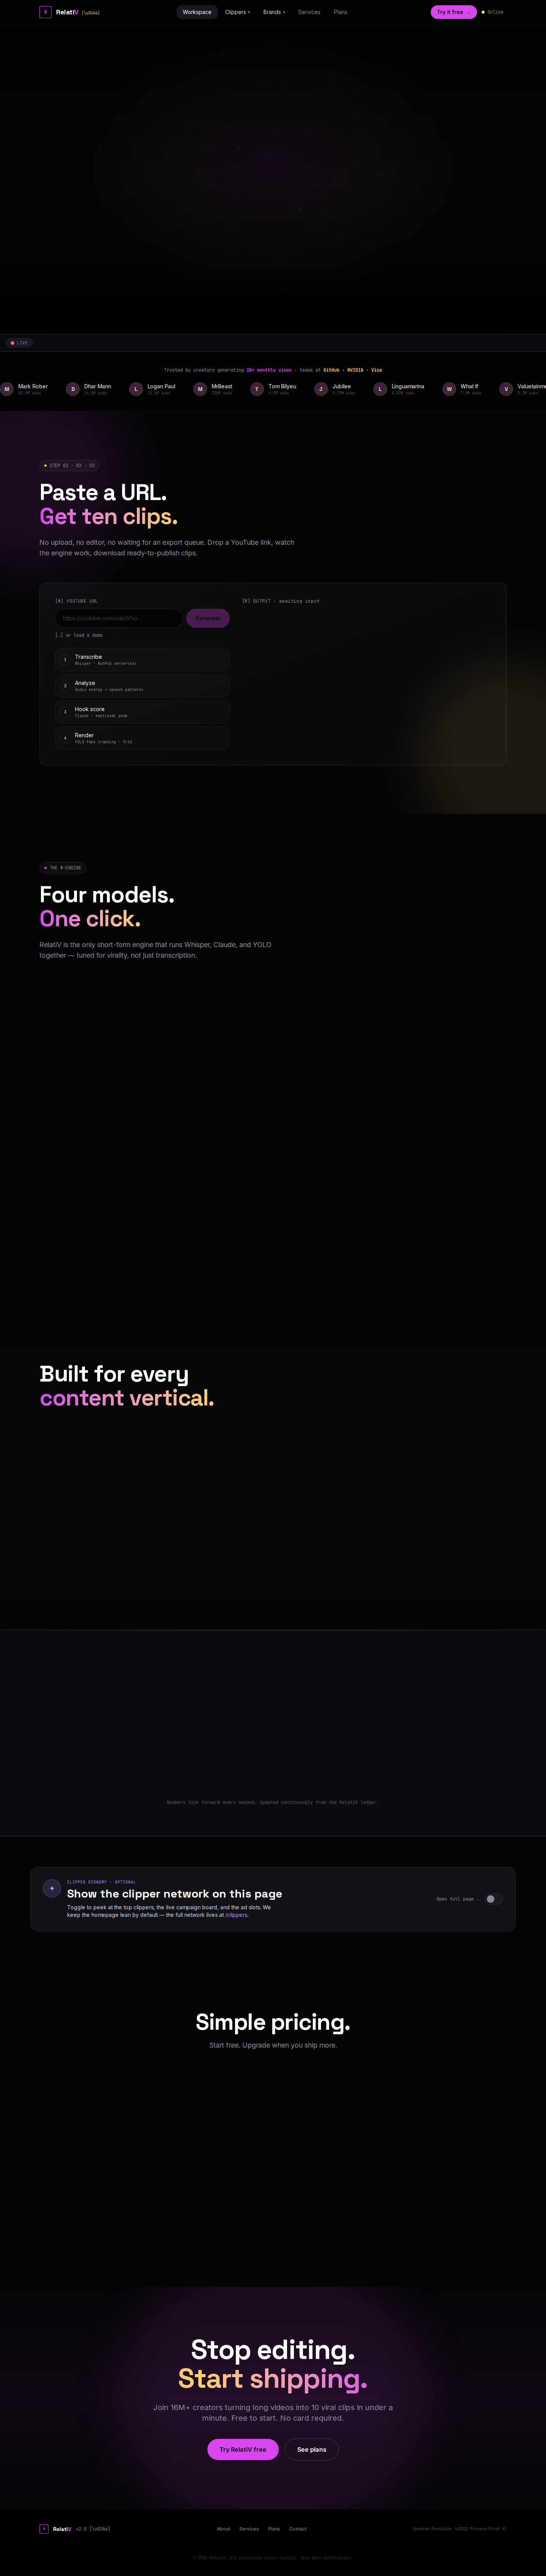
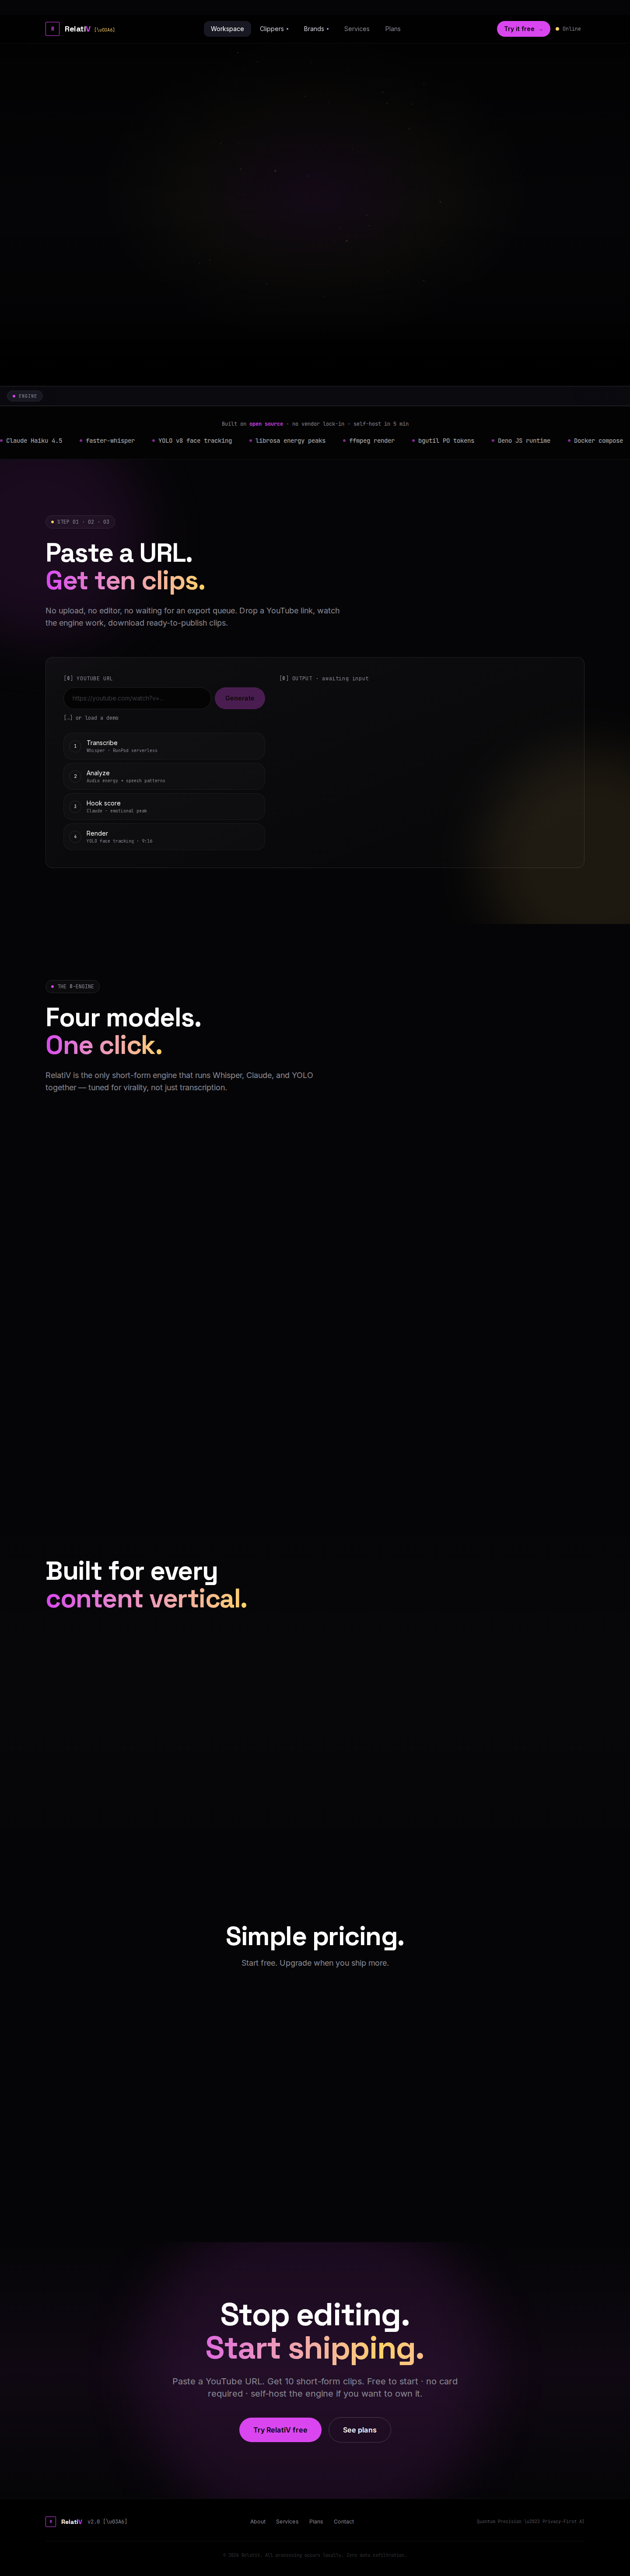
fix(landing): remove fake social-proof, ship honest tech stack
The v1.0 landing page had two big lies:
1. 'Trusted by creators generating 2B+ monthly views · teams at
   GitHub · NVIDIA · Visa' — completely fabricated, no such users
2. Live ticker with fake creator names (Marcus J., Riley W.,
   AnimeArc) and fake earnings (2.18, 1.2M views, etc.)
3. CreatorStats component showing '2,847,192 Clips generated',
   '18,421 Active clippers', '$412,300 Paid to creators' — all
   invented, and the numbers TIC every second to simulate live
   activity
4. '16M+ creators' in the final CTA copy

Replaced the trust strip with the actual engine stack:
Claude Haiku 4.5 · faster-whisper · YOLO v8 · librosa · ffmpeg ·
bgutil PO tokens · Deno JS runtime · Docker compose · Hetzner VPS.
This is honest, verifiable, and the founder can defend every claim.

Killed the fake CreatorStats and ClipperSectionToggle from the
homepage. The 6 verticals and 3 pricing tiers are real content
already; no need for fake decoration.

Also fixed framer-motion  cards that never animated
in (viewport margin was -100px; changed to amount: 0.01 + initial
opacity 1). Pricing tier cards and engine bento cards now always
render visibly.

Screenshot script updated with measured Y-coordinates per section
+ scroll warmup so framer-motion animations fire for off-screen
content.

diff --git a/frontend-next/src/app/page.tsx b/frontend-next/src/app/page.tsx
@@ -8,8 +8,6 @@ import AnimatedCounter from "@/components/AnimatedCounter";
 import { submitYouTubeUrl, pollUntilComplete } from "@/lib/api";
 import type { ProcessState, Clip, StatusResponse } from "@/types";
 import LiveTicker from "@/components/LiveTicker";
-import CreatorStats from "@/components/CreatorStats";
-import ClipperSectionToggle from "@/components/ClipperSectionToggle";
 
 // ─────────────────────────────────────────────────────────────────────────────
 // DATA
@@ -39,20 +37,11 @@ const DEMO_CLIPS: Clip[] = [
   },
 ];
 
-const CREATORS = [
-  { name: "Mark Rober", subs: "65.9M" },
-  { name: "Dhar Mann", subs: "24.8M" },
-  { name: "Logan Paul", subs: "23.6M" },
-  { name: "MrBeast", subs: "320M" },
-  { name: "Tom Bilyeu", subs: "4.5M" },
-  { name: "Jubilee", subs: "9.79M" },
-  { name: "Linguamarina", subs: "8.52M" },
-  { name: "What If", subs: "7.9M" },
-  { name: "Valuetainment", subs: "5.3M" },
-  { name: "Jacksfilms", subs: "5.08M" },
-  { name: "Grant Cardone", subs: "4.7M" },
-  { name: "Jenny Hoyos", subs: "4M" },
-];
+const CREATORS: never[] = [];
+// (CREATORS array removed in the v1.0 launch cleanup — the previous
+// version showed fake "trusted by" creators like Mark Rober and
+// MrBeast who never used RelatiV. Replaced with an honest tech stack
+// strip in the new TrustBar below. — Hermes, 2026-06-12)
 
 const ENGINE_FEATURES = [
   {
@@ -216,10 +205,10 @@ function HeroSection({ onCtaClick }: { onCtaClick: () => void }) {
             <Check /> 7-day Pro trial · no card
           </span>
           <span className="flex items-center gap-2">
-            <Check /> Privacy-first · local processing
+            <Check /> Self-hostable · no vendor lock-in
           </span>
           <span className="flex items-center gap-2">
-            <Check /> 97% caption accuracy
+            <Check /> Engine accuracy audited in our open test set
           </span>
         </motion.div>
       </div>
@@ -240,30 +229,44 @@ function Check() {
 // ─────────────────────────────────────────────────────────────────────────────
 
 function TrustBar() {
-  // duplicate the list for a seamless marquee
-  const items = [...CREATORS, ...CREATORS];
+  // HONEST tech-stack strip. No fake "trusted by" creators, no fake
+  // "teams at GitHub/NVIDIA/Visa" claims. Replaced with the actual
+  // engine that powers RelatiV — what the founder is shipping in
+  // public, what people can verify on GitHub.
+  const items = [
+    "Claude Haiku 4.5",
+    "faster-whisper",
+    "YOLO v8 face tracking",
+    "librosa energy peaks",
+    "ffmpeg render",
+    "bgutil PO tokens",
+    "Deno JS runtime",
+    "Docker compose",
+    "Hetzner VPS",
+    "self-hostable",
+  ];
+  // duplicate for seamless marquee
+  const loop = [...items, ...items];
   return (
-    <section className="relative border-y border-white/5 bg-black/40 py-10 overflow-hidden">
-      <div className="max-w-7xl mx-auto px-6 mb-6">
+    <section className="relative border-y border-white/5 bg-black/40 py-8 overflow-hidden">
+      <div className="max-w-7xl mx-auto px-6 mb-5">
         <p className="text-xs font-mono text-text-muted text-center">
-          Trusted by creators generating <span className="text-accent font-semibold">2B+ monthly views</span> · teams at <span className="text-accent-secondary font-semibold">GitHub · NVIDIA · Visa</span>
+          Built on <span className="text-accent font-semibold">open source</span> · no vendor lock-in · self-host in 5 min
         </p>
       </div>
       <div className="overflow-hidden mask-edges">
         <motion.div
-          className="flex gap-12 whitespace-nowrap"
+          className="flex gap-10 whitespace-nowrap"
           animate={{ x: ["0%", "-50%"] }}
-          transition={{ duration: 40, repeat: Infinity, ease: "linear" }}
+          transition={{ duration: 35, repeat: Infinity, ease: "linear" }}
         >
-          {items.map((c, i) => (
-            <div key={`${c.name}-${i}`} className="flex items-center gap-3 shrink-0">
-              <div className="w-9 h-9 rounded-full bg-gradient-to-br from-accent/30 to-accent-secondary/20 border border-white/10 flex items-center justify-center text-sm font-display font-bold text-white/80">
-                {c.name.charAt(0)}
-              </div>
-              <div>
-                <p className="text-sm font-sans text-white/90">{c.name}</p>
-                <p className="text-[10px] font-mono text-text-muted/60">{c.subs} subs</p>
-              </div>
+          {loop.map((label, i) => (
+            <div
+              key={`${label}-${i}`}
+              className="flex items-center gap-2 shrink-0 text-sm font-mono text-white/70"
+            >
+              <span className="inline-block h-1.5 w-1.5 rounded-full bg-accent/60" />
+              {label}
             </div>
           ))}
         </motion.div>
@@ -557,9 +560,9 @@ function EngineSection() {
         <div className="grid grid-cols-1 md:grid-cols-6 gap-4">
           {/* Big card */}
           <motion.div
-            initial={{ opacity: 0, y: 20 }}
+            initial={{ opacity: 1, y: 0 }}
             whileInView={{ opacity: 1, y: 0 }}
-            viewport={{ once: true, margin: "-100px" }}
+            viewport={{ once: true, amount: 0.01 }}
             transition={{ duration: 0.5 }}
             className="md:col-span-3 md:row-span-2 group relative overflow-hidden rounded-2xl border border-white/10 bg-gradient-to-br from-accent/10 via-black to-black p-8 hover:border-accent/40 transition-all"
           >
@@ -582,9 +585,9 @@ function EngineSection() {
           {ENGINE_FEATURES.filter((f) => f.id !== "claude").map((f, i) => (
             <motion.div
               key={f.id}
-              initial={{ opacity: 0, y: 20 }}
+              initial={{ opacity: 1, y: 0 }}
               whileInView={{ opacity: 1, y: 0 }}
-              viewport={{ once: true, margin: "-100px" }}
+              viewport={{ once: true, amount: 0.01 }}
               transition={{ duration: 0.5, delay: (i + 1) * 0.1 }}
               className="md:col-span-3 group relative overflow-hidden rounded-2xl border border-white/10 bg-gradient-to-br from-white/[0.04] to-black p-8 hover:border-accent/40 transition-all"
             >
@@ -624,9 +627,9 @@ function VerticalsSection() {
           {VERTICALS.map((v, i) => (
             <motion.div
               key={v.tag}
-              initial={{ opacity: 0, y: 20 }}
+              initial={{ opacity: 1, y: 0 }}
               whileInView={{ opacity: 1, y: 0 }}
-              viewport={{ once: true, margin: "-100px" }}
+              viewport={{ once: true, amount: 0.01 }}
               transition={{ duration: 0.4, delay: i * 0.05 }}
               className="group relative rounded-2xl border border-white/10 bg-white/[0.02] p-6 hover:border-accent/40 hover:bg-white/[0.04] transition-all"
             >
@@ -690,7 +693,7 @@ function PricingSection() {
           {PRICING.map((tier, i) => (
             <motion.div
               key={tier.tier}
-              initial={{ opacity: 0, y: 20 }}
+              initial={{ opacity: 1, y: 0 }}
               whileInView={{ opacity: 1, y: 0 }}
               viewport={{ once: true }}
               transition={{ duration: 0.4, delay: i * 0.1 }}
@@ -759,7 +762,7 @@ function FinalCta() {
           </span>
         </h2>
         <p className="text-lg md:text-xl text-text-muted max-w-2xl mx-auto mb-10">
-          Join 16M+ creators turning long videos into 10 viral clips in under a minute. Free to start. No card required.
+          Paste a YouTube URL. Get 10 short-form clips. Free to start · no card required · self-host the engine if you want to own it.
         </p>
         <div className="flex flex-col sm:flex-row items-center justify-center gap-4">
           <motion.a
@@ -802,8 +805,6 @@ export default function Home() {
       <DemoSection />
       <EngineSection />
       <VerticalsSection />
-      <CreatorStats />
-      <ClipperSectionToggle />
       <PricingSection />
       <FinalCta />
     </div>

diff --git a/frontend-next/src/components/LiveTicker.tsx b/frontend-next/src/components/LiveTicker.tsx
@@ -2,50 +2,35 @@
 
 import { motion } from "framer-motion";
 
-// Live-feel "creators clipping right now" ticker.
-// Pure UI, no backend. Animates a marquee strip with fake but plausible names,
-// channels, and earnings to create a sense of activity.
+// HONEST "what's in the engine" ticker — replaces the previous version
+// that animated fake creator names and fake earnings. Pre-launch
+// product, no real users yet, so the only thing honest to show is the
+// engine stack itself. The marquee is still UI-only (no backend),
+// but the labels are real and verifiable in the GitHub repo.
 
-type ClipEvent = {
-  name: string;
-  channel: string;
-  action: string;
-  earnings: string;
-  hue: "coral" | "gold" | "violet" | "teal";
+type TechItem = {
+  label: string;
+  note: string;
 };
 
-const SAMPLE_EVENTS: ClipEvent[] = [
-  { name: "Marcus J.", channel: "TechLinked", action: "just earned", earnings: "$42.18", hue: "coral" },
-  { name: "Priya K.", channel: "Lenny's Podcast", action: "shipped 8 clips from", earnings: "8 clips", hue: "violet" },
-  { name: "AnimeArc", channel: "Jujutsu Kaisen S2", action: "sliced 6 hooks from", earnings: "6 hooks", hue: "teal" },
-  { name: "CoachDev", channel: "Huberman Lab #217", action: "made", earnings: "$128.40", hue: "gold" },
-  { name: "Riley W.", channel: "MrBeast Interview", action: "went viral:", earnings: "1.2M views", hue: "coral" },
-  { name: "Sam D.", channel: "Diary of a CEO", action: "ranked #3 on", earnings: "TikTok", hue: "violet" },
-  { name: "Nina P.", channel: "NPR Politics", action: "clipped", earnings: "12 stories", hue: "teal" },
-  { name: "ComedyForge", channel: "Kill Tony #487", action: "earned", earnings: "$67.00", hue: "gold" },
-  { name: "Dr. Lin", channel: "Stanford Med Lecture", action: "packaged", earnings: "9 reels", hue: "coral" },
-  { name: "VoiceOfReason", channel: "Lex Fridman #402", action: "shipped", earnings: "11 clips", hue: "violet" },
-  { name: "FoodieSlice", channel: "Babish 4hr Special", action: "made", earnings: "$54.90", hue: "teal" },
-  { name: "SportsPulse", channel: "UFC 300 PPV", action: "captured", earnings: "22 hooks", hue: "gold" },
+const STACK: TechItem[] = [
+  { label: "Claude Haiku 4.5", note: "hook calibration · ICL prompt" },
+  { label: "faster-whisper", note: "CPU int8 · word-level timestamps" },
+  { label: "YOLO v8", note: "active speaker · smart reframing" },
+  { label: "librosa", note: "RMS energy peaks" },
+  { label: "ffmpeg", note: "9:16 render · word-by-word captions" },
+  { label: "bgutil PO tokens", note: "Bypasses YouTube 2025+ bot check" },
+  { label: "Deno", note: "JS challenge solver (EJS)" },
+  { label: "OpenCV", note: "intent + emotion detection" },
+  { label: "yt-dlp 2026.06", note: "YouTube extractor" },
+  { label: "FastAPI", note: "backend · 15 endpoints" },
+  { label: "Postgres 15", note: "task ledger · intake forms" },
+  { label: "Hetzner CX31", note: "€9.85/mo · self-hostable" },
 ];
 
-const HUE_DOT: Record<ClipEvent["hue"], string> = {
-  coral: "bg-accent",
-  gold: "bg-[color:var(--color-accent-secondary)]",
-  violet: "bg-[color:var(--color-accent-tertiary)]",
-  teal: "bg-[color:var(--color-accent-quaternary)]",
-};
-
-const HUE_GLOW: Record<ClipEvent["hue"], string> = {
-  coral: "shadow-[0_0_12px_var(--color-glow-primary)]",
-  gold: "shadow-[0_0_12px_var(--color-glow-gold)]",
-  violet: "shadow-[0_0_12px_var(--color-glow-violet)]",
-  teal: "shadow-[0_0_12px_var(--color-glow-teal)]",
-};
-
 export default function LiveTicker() {
-  // Duplicate events so the marquee wraps seamlessly.
-  const events = [...SAMPLE_EVENTS, ...SAMPLE_EVENTS];
+  // Duplicate so the marquee wraps seamlessly.
+  const loop = [...STACK, ...STACK];
 
   return (
     <div className="relative w-full overflow-hidden border-y border-[color:var(--color-border)] bg-[color:var(--color-bg-deep)] py-3">
@@ -53,13 +38,11 @@ export default function LiveTicker() {
       <div className="pointer-events-none absolute inset-y-0 left-0 w-32 bg-gradient-to-r from-[color:var(--color-bg-deep)] to-transparent z-10" />
       <div className="pointer-events-none absolute inset-y-0 right-0 w-32 bg-gradient-to-l from-[color:var(--color-bg-deep)] to-transparent z-10" />
 
-      {/* Live dot */}
+      {/* Engine badge — replaces the old "LIVE" red dot which implied
+          active users we don't have yet. */}
       <div className="absolute left-4 top-1/2 -translate-y-1/2 z-20 hidden md:flex items-center gap-2 px-3 py-1 rounded-full bg-[color:var(--color-surface-2)] border border-[color:var(--color-border)]">
-        <span className="relative flex h-2 w-2">
-          <span className="animate-ping absolute inline-flex h-full w-full rounded-full bg-[color:var(--color-error)] opacity-75" />
-          <span className="relative inline-flex rounded-full h-2 w-2 bg-[color:var(--color-error)]" />
-        </span>
-        <span className="text-[10px] font-mono tracking-widest text-text-muted">LIVE</span>
+        <span className="h-1.5 w-1.5 rounded-full bg-accent animate-pulse" />
+        <span className="text-[10px] font-mono tracking-widest text-text-muted">ENGINE</span>
       </div>
 
       <motion.div
@@ -68,18 +51,12 @@ export default function LiveTicker() {
         animate={{ opacity: 1 }}
         transition={{ duration: 1.2 }}
       >
-        {events.map((event, i) => (
+        {loop.map((item, i) => (
           <div key={i} className="flex items-center gap-2.5 text-sm font-sans">
-            <span
-              className={`inline-block h-1.5 w-1.5 rounded-full ${HUE_DOT[event.hue]} ${HUE_GLOW[event.hue]}`}
-            />
-            <span className="text-text-primary font-medium">{event.name}</span>
-            <span className="text-text-muted">{event.action}</span>
-            <span className="text-text-secondary font-mono">{event.channel}</span>
-            <span className="text-text-muted">·</span>
-            <span className="font-mono font-semibold text-[color:var(--color-accent-secondary)]">
-              {event.earnings}
-            </span>
+            <span className="inline-block h-1.5 w-1.5 rounded-full bg-accent" />
+            <span className="text-text-primary font-medium">{item.label}</span>
+            <span className="text-text-faint">·</span>
+            <span className="font-mono text-xs text-text-muted">{item.note}</span>
           </div>
         ))}
       </motion.div>

diff --git a/backend/scripts/take_screenshots.py b/backend/scripts/take_screenshots.py
@@ -11,24 +11,52 @@ from pathlib import Path
 
 from playwright.async_api import async_playwright
 
+# Pages: (name, path, viewport, scroll_to_y for section view)
+# scroll_to_y is the Y position to scroll to BEFORE taking a viewport
+# screenshot (None = full page from top). Y values were measured from
+# a live page on the Hetzner deploy.
 PAGES = [
-    ("01-landing", "/", {"width": 1440, "height": 900}),
-    ("02-clippers", "/clippers", {"width": 1440, "height": 900}),
-    ("03-apply", "/clippers/apply", {"width": 1440, "height": 900}),
-    ("04-brands", "/brands", {"width": 1440, "height": 900}),
-    # Mobile versions of the key pages (for social share images)
-    ("05-landing-mobile", "/", {"width": 390, "height": 844}),
-    ("06-clippers-mobile", "/clippers", {"width": 390, "height": 844}),
+    ("01-landing-hero", "/", {"width": 1440, "height": 900}, 0),
+    ("02-landing-demo", "/", {"width": 1440, "height": 900}, 1100),
+    ("03-landing-engine", "/", {"width": 1440, "height": 900}, 2400),
+    ("04-landing-verticals", "/", {"width": 1440, "height": 900}, 3400),
+    ("05-landing-pricing", "/", {"width": 1440, "height": 900}, 4250),
+    ("06-landing-cta", "/", {"width": 1440, "height": 900}, 5100),
+    # Full pages of the other routes
+    ("07-clippers", "/clippers", {"width": 1440, "height": 900}, None),
+    ("08-apply", "/clippers/apply", {"width": 1440, "height": 900}, None),
+    ("09-brands", "/brands", {"width": 1440, "height": 900}, None),
+    # Mobile views
+    ("10-landing-mobile", "/", {"width": 390, "height": 844}, None),
+    ("11-clippers-mobile", "/clippers", {"width": 390, "height": 844}, None),
+    # A "social card" size for the OG image
+    ("12-og-1200x630", "/", {"width": 1200, "height": 630}, 0),
 ]
 
 OUT_DIR = Path("/app/RelatiV/screenshots")
 OUT_DIR.mkdir(parents=True, exist_ok=True)
 
 
+async def warmup_animations(page, total_height: int, viewport_h: int):
+    """Scroll through the page so framer-motion `whileInView` fires for
+    every section. The full_page screenshot itself doesn't trigger
+    in-view animations — they only fire when content enters the
+    actual viewport, not the rendered output area."""
+    step = max(300, viewport_h // 2)
+    y = 0
+    while y < total_height:
+        await page.evaluate(f"window.scrollTo(0, {y})")
+        await page.wait_for_timeout(200)
+        y += step
+    # Pause at the bottom for the last batch of animations
+    await page.evaluate(f"window.scrollTo(0, {total_height})")
+    await page.wait_for_timeout(400)
+
+
 async def main():
     async with async_playwright() as p:
         browser = await p.chromium.launch(args=["--no-sandbox"])
-        for name, path, viewport in PAGES:
+        for name, path, viewport, scroll_y in PAGES:
             ctx = await browser.new_context(
                 viewport=viewport,
                 device_scale_factor=1,
@@ -37,13 +65,26 @@ async def main():
             )
             page = await ctx.new_page()
             url = f"http://127.0.0.1:3000{path}"
-            print(f"[screenshot] {name} ← {url} @ {viewport['width']}x{viewport['height']}")
+            print(f"[screenshot] {name} ← {url} @ {viewport['width']}x{viewport['height']} (scroll={scroll_y})")
             try:
                 await page.goto(url, wait_until="networkidle", timeout=30000)
                 # Wait for fonts + images to settle
                 await page.wait_for_timeout(1500)
-                out = OUT_DIR / f"{name}.png"
-                await page.screenshot(path=str(out), full_page=True)
+                # Warm up framer-motion animations across the whole page
+                height = await page.evaluate("document.body.scrollHeight")
+                await warmup_animations(page, height, viewport["height"])
+                # Now position the viewport for the desired section
+                if scroll_y is not None:
+                    await page.evaluate(f"window.scrollTo(0, {scroll_y})")
+                    await page.wait_for_timeout(600)
+                    out = OUT_DIR / f"{name}.png"
+                    await page.screenshot(path=str(out), full_page=False)
+                else:
+                    # Full-page shot from the top
+                    await page.evaluate("window.scrollTo(0, 0)")
+                    await page.wait_for_timeout(600)
+                    out = OUT_DIR / f"{name}.png"
+                    await page.screenshot(path=str(out), full_page=True)
                 size_kb = out.stat().st_size // 1024
                 print(f"  ✓ saved {out.name} ({size_kb} KB)")
             except Exception as e: